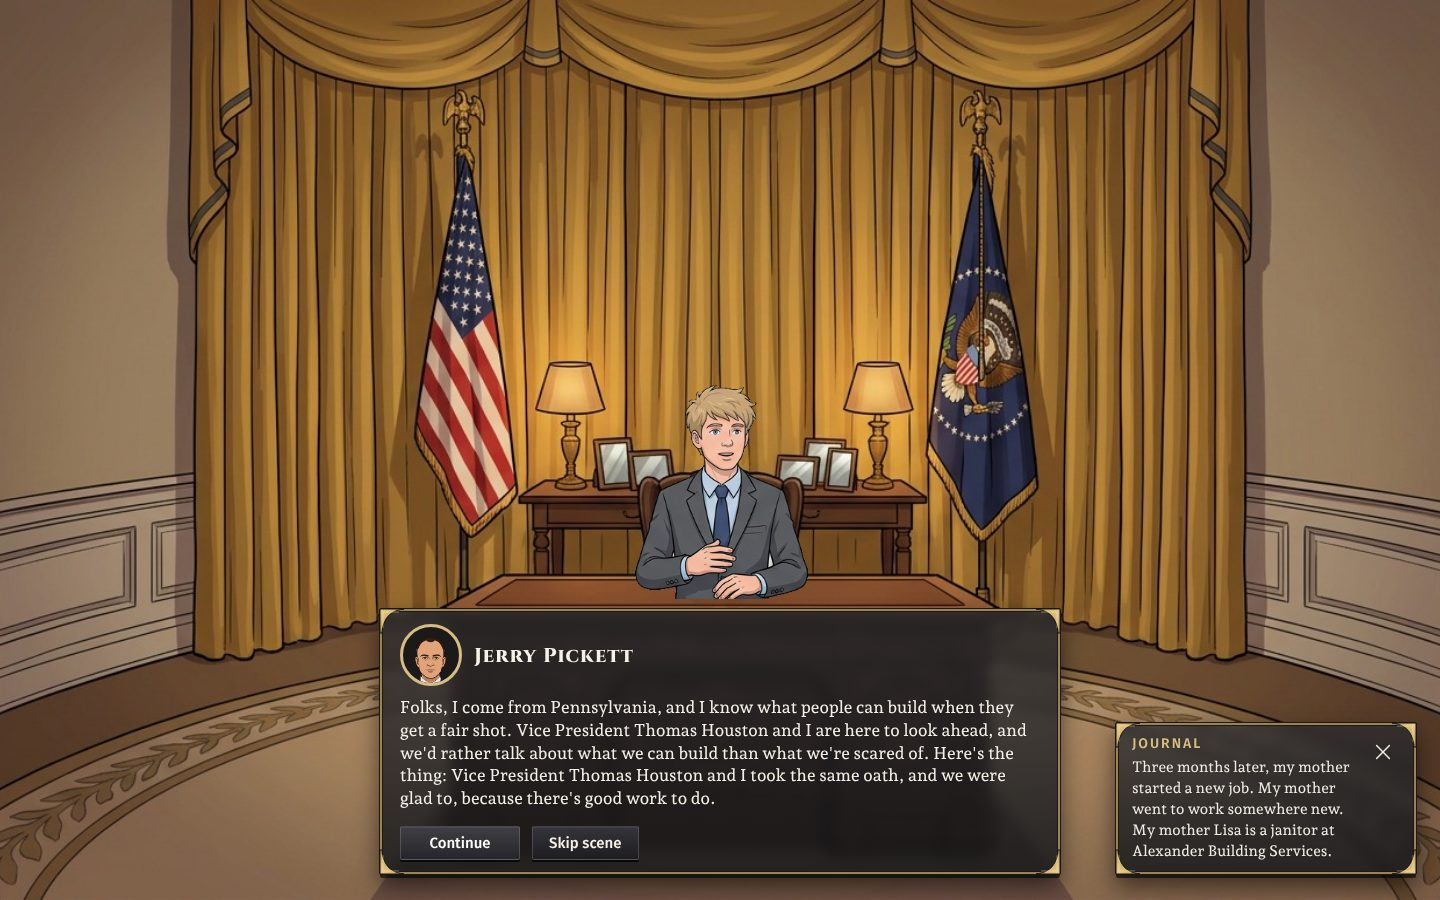
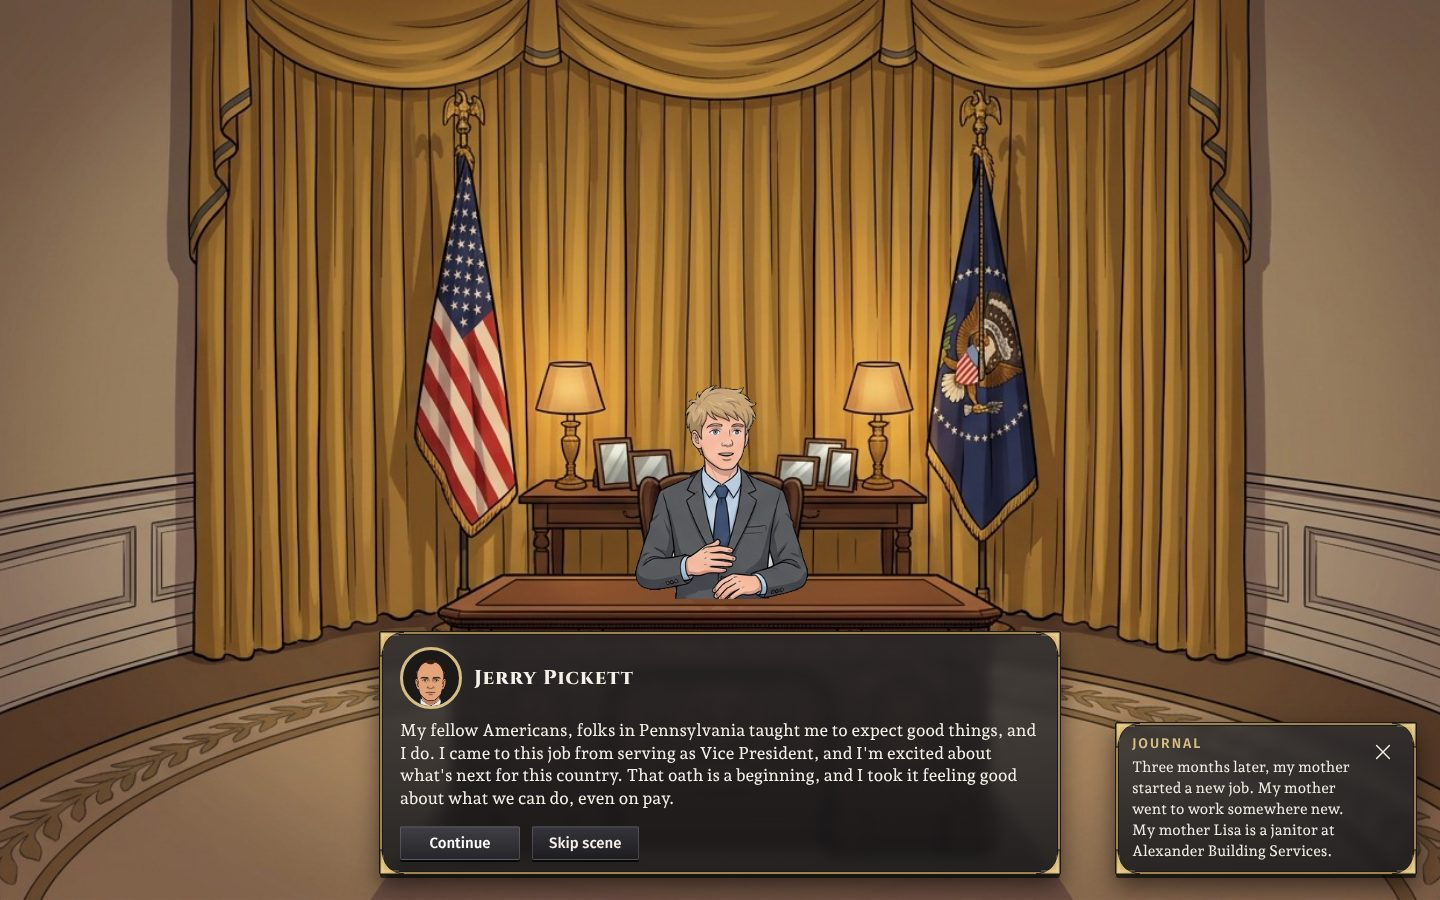
seen: the President's address retaken on the same three seeds after the words lead's read
Claude-Session: https://claude.ai/code/session_01S4WSHpbwmeRwPL5LnADR55

Changed region(s): [[0.25, 0.6533, 0.75, 0.9022]]

diff --git a/docs/seen/opening-address/README.md b/docs/seen/opening-address/README.md
@@ -26,8 +26,12 @@ Across ten worlds drawn with the probe (places drawn by `drawPlace` on seeds e1 
 
 ## What each address now names from its own world
 
-- Gold Hill: the President's home state (Pennsylvania), the Vice President (Thomas Houston), the President's line on legal cannabis sales, and how far pay, prices and work moved ("rose a little", "rose steadily").
-- Orchard Mesa: the home state (Montana), the Vice President (Allison Molina) and the Speaker (Cindy Chambers).
-- Lyons: the Speaker (Carol Lee), the Vice President (Patricia Parker) and the home state (South Carolina).
+- Gold Hill: the home state (Pennsylvania) twice, the Vice President (Thomas Houston) twice, the President's line on legal cannabis sales once, and how far the economy, prices and work moved, each once, in words.
+- Orchard Mesa: the home state (Montana), the Vice President (Allison Molina) and the Speaker (Cindy Chambers), each twice at most.
+- Lyons: the Speaker (Carol Lee), the Vice President (Patricia Parker) and the home state (South Carolina), each twice at most.
 
-The test `src/director/opening-address-versions.test.ts` checks the same on ten drawn worlds every run.
+## Retaken after the words lead's read (Nov 11, #8743)
+
+The "after" texts and pictures were retaken on the same seeds after four changes: lead-ins only say who is spoken to, when or where, and none is said twice; a priority is one sentence, led in by its rank; a subject's movement is told once, and a pledge says what the President will do; no name is said more than twice. None of the three has a colon lead-in. The addresses are shorter (13 to 15 sentences against 25 to 31), because each priority is now one sentence instead of four.
+
+The test `src/director/opening-address-versions.test.ts` checks all of this on ten drawn worlds every run.
